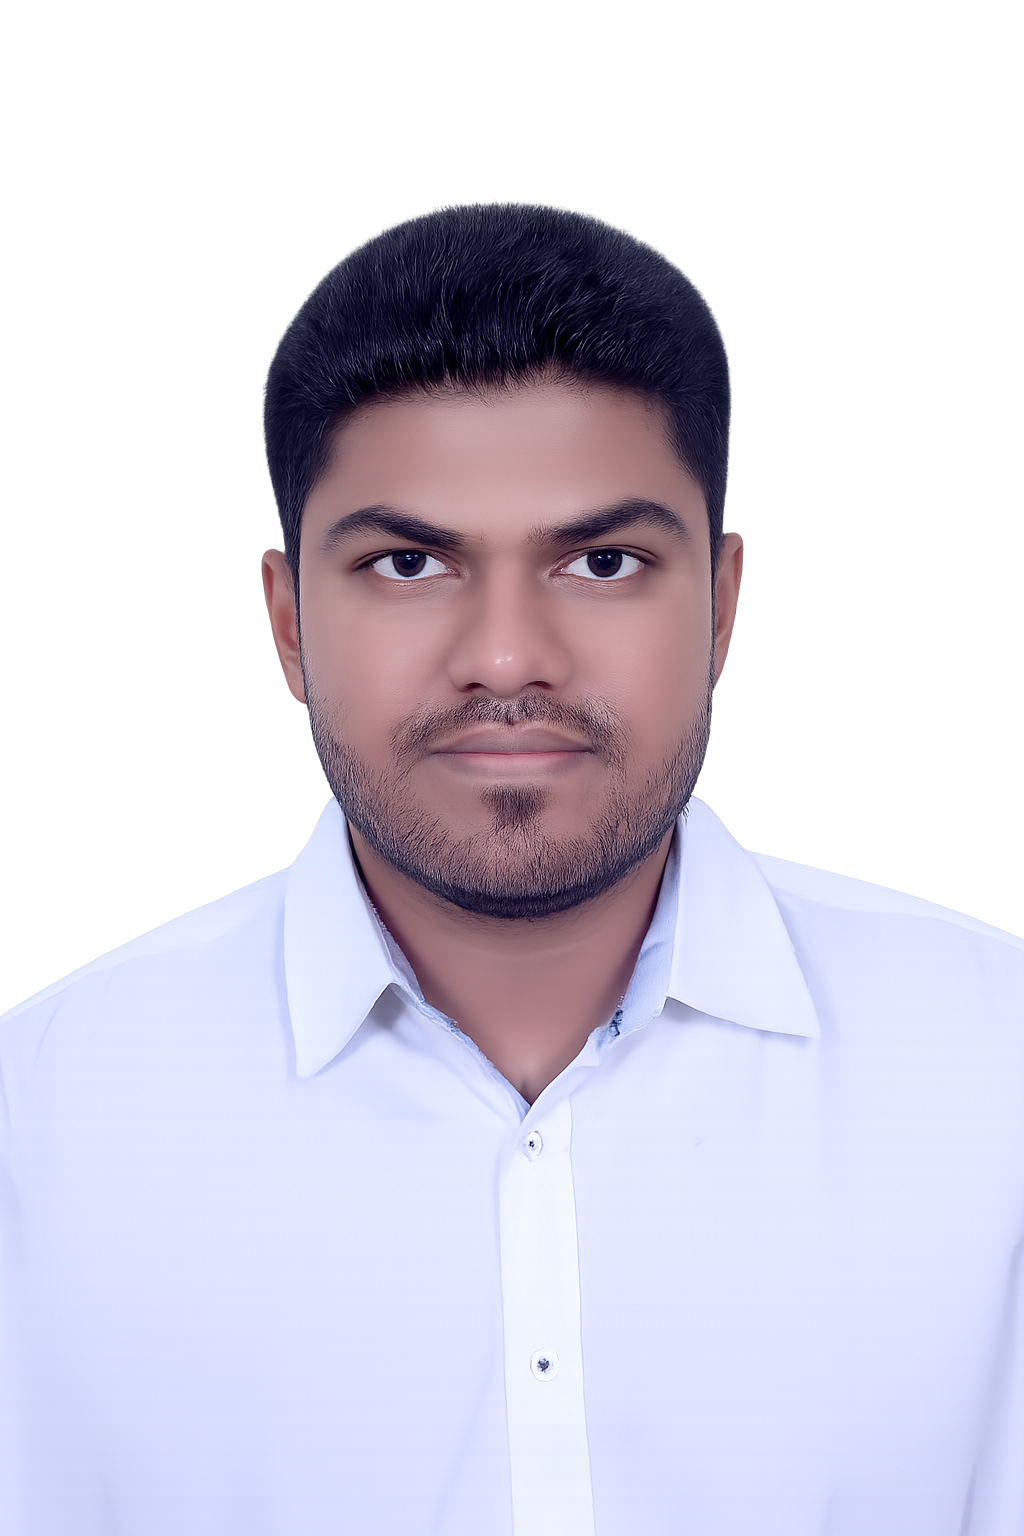
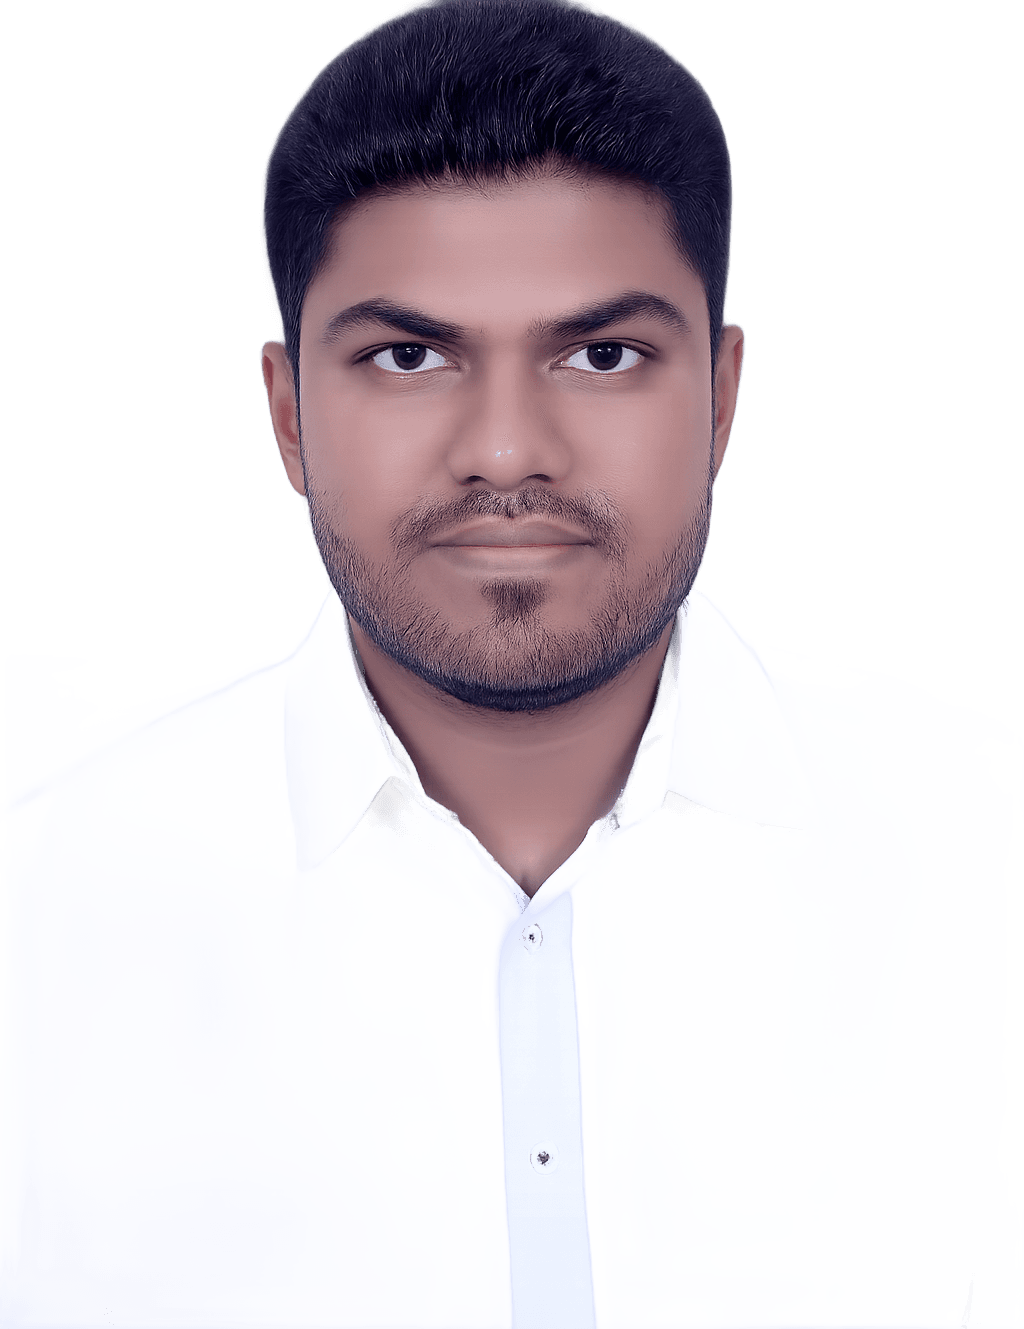
Updated

diff --git a/src/components/HeroSection.vue b/src/components/HeroSection.vue
@@ -24,9 +24,17 @@
             <Mail :size="18" />
             Email
           </a>
+          <a class="button ghost" href="https://wa.me/8801705568901" target="_blank" rel="noopener">
+            <MessageCircle :size="18" />
+            WhatsApp
+          </a>
           <a class="button ghost" href="https://www.linkedin.com/in/md-mahidul-haque" target="_blank" rel="noopener">
             <Linkedin :size="18" />
             LinkedIn
+          </a>
+          <a class="button ghost" href="https://www.facebook.com/mahidulhaque.shezan/" target="_blank" rel="noopener">
+            <Facebook :size="18" />
+            Facebook
           </a>
           <a class="button ghost" href="https://github.com/mahidul5130" target="_blank" rel="noopener">
             <Github :size="18" />
@@ -51,7 +59,7 @@
       >
         <div class="kinetic-ring" aria-hidden="true"></div>
         <figure class="portrait-frame">
-          <img src="/profile.png" width="900" height="1125" alt="Md. Mahidul Haque">
+          <img src="/profile.png" width="1024" height="1329" alt="Md. Mahidul Haque">
         </figure>
 
         <div class="hero-code-card" aria-hidden="true">
@@ -79,11 +87,13 @@ import {
   BriefcaseBusiness,
   CreditCard,
   Download,
+  Facebook,
   Github,
   Globe2,
   Linkedin,
   Mail,
   MapPin,
+  MessageCircle,
   Plane,
   Radio,
   ServerCog,

diff --git a/src/styles.css b/src/styles.css
@@ -493,11 +493,13 @@ h3 {
     position: relative;
     z-index: 2;
     width: min(380px, 100%);
+    aspect-ratio: 4 / 5;
     margin: 0;
     overflow: hidden;
     border: 1px solid rgba(255, 255, 255, 0.88);
     border-radius: var(--radius);
-    background: var(--surface-solid);
+    background:
+        linear-gradient(145deg, rgba(232, 246, 241, 0.96), rgba(255, 245, 230, 0.9));
     box-shadow: var(--shadow-hover);
     transform: rotateX(var(--tilt-x)) rotateY(var(--tilt-y));
     transform-style: preserve-3d;
@@ -528,10 +530,9 @@ h3 {
 
 .portrait-frame img {
     width: 100%;
-    aspect-ratio: 4 / 5;
-    object-fit: cover;
-    object-position: center 64%;
-    transform: scale(1.02);
+    height: 100%;
+    object-fit: contain;
+    object-position: center bottom;
 }
 
 .hero-code-card {
@@ -756,6 +757,15 @@ h3 {
     max-height: 72px;
     object-fit: contain;
     filter: saturate(1.05) contrast(1.03);
+}
+
+.company-logos img[src*="dotlines.svg"] {
+    box-sizing: content-box;
+    max-width: 104px;
+    max-height: 24px;
+    border-radius: var(--radius);
+    background: #111827;
+    padding: 9px 11px;
 }
 
 .item-head {

diff --git a/src/components/ContactSection.vue b/src/components/ContactSection.vue
@@ -16,9 +16,17 @@
           <Phone :size="18" />
           +8801705568901
         </a>
+        <a href="https://wa.me/8801705568901" target="_blank" rel="noopener">
+          <MessageCircle :size="18" />
+          WhatsApp
+        </a>
         <a href="https://www.linkedin.com/in/md-mahidul-haque" target="_blank" rel="noopener">
           <Linkedin :size="18" />
           LinkedIn
+        </a>
+        <a href="https://www.facebook.com/mahidulhaque.shezan/" target="_blank" rel="noopener">
+          <Facebook :size="18" />
+          Facebook
         </a>
         <a href="https://github.com/mahidul5130" target="_blank" rel="noopener">
           <Github :size="18" />
@@ -34,5 +42,5 @@
 </template>
 
 <script setup>
-import { Download, Github, Linkedin, Mail, Phone } from "lucide-vue-next";
+import { Download, Facebook, Github, Linkedin, Mail, MessageCircle, Phone } from "lucide-vue-next";
 </script>

diff --git a/public/resume.html b/public/resume.html
@@ -162,7 +162,8 @@
         <p class="headline">Full-Stack Software Engineer | Laravel, Vue.js, REST APIs, Payments</p>
         <p class="contact">
             Dhaka, Bangladesh (UTC+6) | mahidul5130@gmail.com | +8801705568901 |
-            LinkedIn: linkedin.com/in/md-mahidul-haque | Portfolio: mahidul5130.github.io | GitHub: github.com/mahidul5130
+            WhatsApp: wa.me/8801705568901 | LinkedIn: linkedin.com/in/md-mahidul-haque |
+            Facebook: facebook.com/mahidulhaque.shezan | Portfolio: mahidul5130.github.io | GitHub: github.com/mahidul5130
         </p>
     </header>
 

diff --git a/index.html b/index.html
@@ -32,7 +32,8 @@
             "url": "https://mahidulhaque.com",
             "sameAs": [
                 "https://github.com/mahidul5130",
-                "https://www.linkedin.com/in/md-mahidul-haque"
+                "https://www.linkedin.com/in/md-mahidul-haque",
+                "https://www.facebook.com/mahidulhaque.shezan/"
             ],
             "knowsAbout": [
                 "Laravel",
